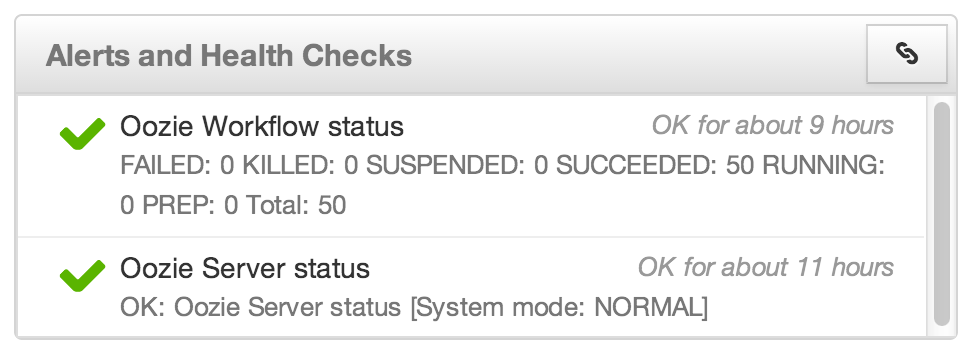
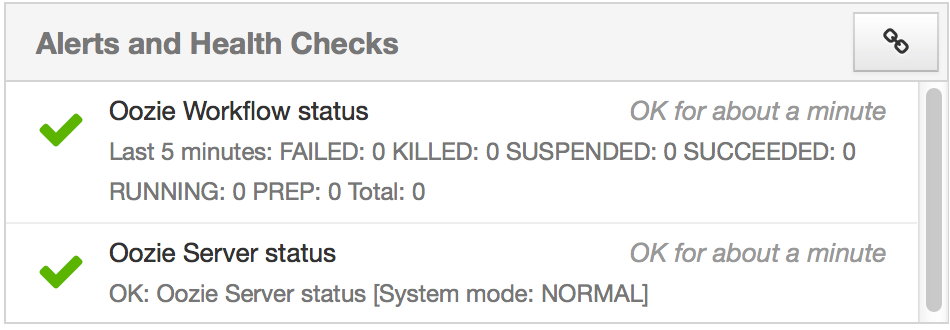
HDP 2.1 updated screen shot and readme

Changed region(s): [[0.0, 0.0, 1.0, 1.0], [0.0916, 0.4242, 0.9158, 0.4848], [0.0916, 0.5152, 0.4579, 0.6061]]

diff --git a/README.md b/README.md
@@ -3,17 +3,16 @@
 This plugin will identify and alert the status of Oozie workflows.
 
 ![Ambari Oozie Nagios Screenshot](/images/ambari-oozie.png "Ambari Oozie Nagios Screenshot")
-![Nagios Screenshot](/images/nagios-oozie.png "Nagios Oozie Screenshot")
+
 
 ###News
 Updated for HDP 2.1 Nagios integration.
 This plugin now only reports on a fixed number of jobs in the past that meet time range criteria specified by the admin.
 
 ###Dependencies
-With the Kerberos integration, the Python source will need two new packages installed on the Nagios server.
+With the Kerberos integration, the Python source will need three new packages installed on the Nagios server.
 python-kerberos (CentOS Base)
 python-urllib2_kerberos (EPEL)
-For Timezone handling:
 pytz (CentOS Base)
 
 
@@ -23,26 +22,25 @@ HDP 2.1
 ###Installation
 All actions are conducted on the HDP2 Nagios server
 
-**Read Carefully** -- The only files that should be added are check_oozie_workflows{.py,.sh}.  The other files are configurations that should be added to the existing HDP2 Ambari configuration.
+**Read Carefully** -- The only files that should be added are check_oozie_workflows{.py,.sh}.  The other files are configurations that should be added to the existing Ambari configuration.
 
-1. Add [check_oozie_workflows.py](/src/check_oozie_workflows.py) and [check_oozie_workflows.sh](/src/check_oozie_workflows.sh)  to the Ambari agent Puppet module files directory at: /var/lib/ambari-agent/puppet/modules/hdp-nagios/files/
-2. Add the additional configuration within the existing Oozie if conditional in file [hadoop-services.cfg.erb](/ambari/templates/hadoop-services.cfg.erb) to: /var/lib/ambari-agent/puppet/modules/hdp-nagios/templates/hadoop-services.cfg.erb
+1. Add [check_oozie_workflows.py](/src/check_oozie_workflows.py) and [check_oozie_workflows.sh](/src/check_oozie_workflows.sh)  to the Ambari agent Puppet module files directory at: /var/lib/ambari-server/resources/stacks/HDP/2.0.6/services/NAGIOS/package/files
+2. Add the additional configuration within the existing Oozie if conditional in file [hadoop-services.cfg.erb](/ambari/templates/hadoop-services.cfg.erb) to: /var/lib/ambari-server/resources/stacks/HDP/2.0.6/services/NAGIOS/package/templates
 
 Example for hadoop-services.cfg.erb
 ```bash
-<%if scope.function_hdp_nagios_members_exist('oozie-server')-%>
+{% if hostgroup_defs['oozie-server'] %}
 # Oozie check
 define service {
         hostgroup_name          oozie-server
         use                     hadoop-service
         service_description     OOZIE::Oozie Server status
         servicegroups           OOZIE
-        <%if scope.function_hdp_template_var("::hdp::params::security_enabled")-%>
-        check_command           check_oozie_status!<%=scope.function_hdp_template_var("::hdp::oozie_server_port")%>!<%=scope.function_hdp_template_var("java64_home")%>!true!<%=scope.function_hdp_templat
-e_var("nagios_keytab_path")%>!<%=scope.function_hdp_template_var("nagios_principal_name")%>!<%=scope.function_hdp_template_var("kinit_path_local")%>
-        <%else-%>
-        check_command           check_oozie_status!<%=scope.function_hdp_template_var("::hdp::oozie_server_port")%>!<%=scope.function_hdp_template_var("java64_home")%>!false
-        <%end-%>
+        {% if security_enabled %}
+        check_command           check_oozie_status!{{ oozie_server_port }}!{{ java64_home }}!true!{{ nagios_keytab_path }}!{{ nagios_principal_name }}!{{ kinit_path_local }}
+        {% else %}
+        check_command           check_oozie_status!{{ oozie_server_port }}!{{ java64_home }}!false
+        {% endif %}
         normal_check_interval   1
         retry_check_interval    1
         max_check_attempts      3
@@ -62,12 +60,13 @@ define service {
         retry_check_interval    1
         max_check_attempts      3
 }
-<%end-%>
+{% endif %}
 ```
 
-3. Add the additional configuration in [hadoop-commands.cfg.erb](/Ambari-Puppet-Configs/hadoop-commands.cfg.erb) to: /var/lib/ambari-agent/puppet/modules/hdp-nagios/templates/hadoop-commands.cfg.erb
-4. Add the additional configuration in [config.pp](/Ambari-Puppet-Configs/config.pp) to: /var/lib/ambari-agent/puppet/modules/hdp-nagios/manifests/server/config.pp
-5. Restart Nagios via Ambari
+3. Add the additional configuration in [hadoop-commands.cfg.erb](/ambari/templates/hadoop-commands.cfg.erb) to: /var/lib/ambari-agent/puppet/modules/hdp-nagios/templates/hadoop-commands.cfg.erb
+4. Add the additional configuration in [nagios_server_config.py](/ambari/scripts/nagios_server_config.py) to: /var/lib/ambari-server/resources/stacks/HDP/2.0.6/services/NAGIOS/package/scripts/nagios_server_config.py
+5. Restart Ambari Server and Ambari Agents
+6. Restart Nagios from Ambari
 
 
 ####Alert Translations
